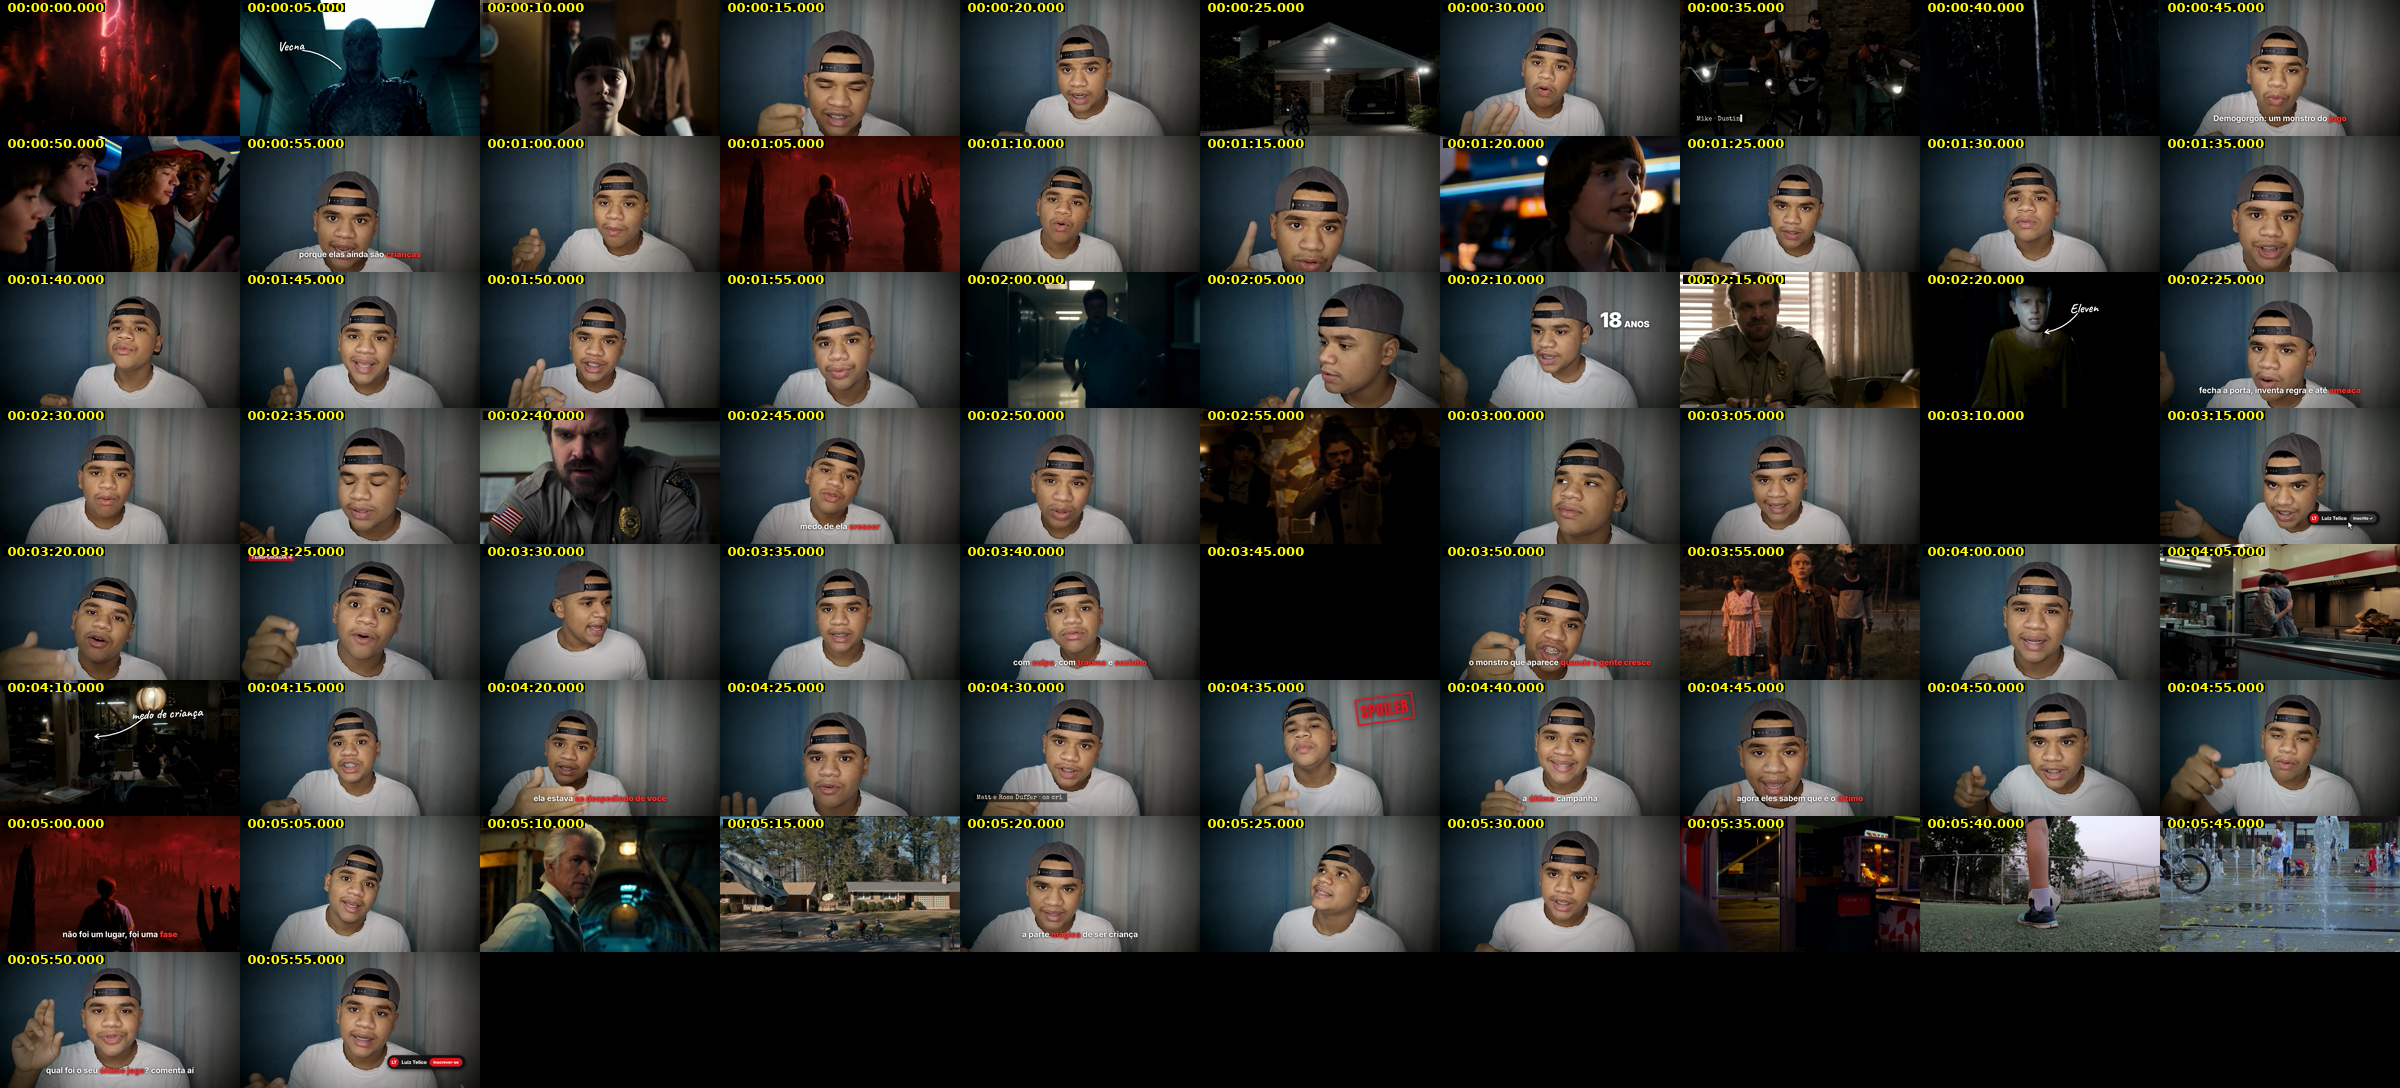
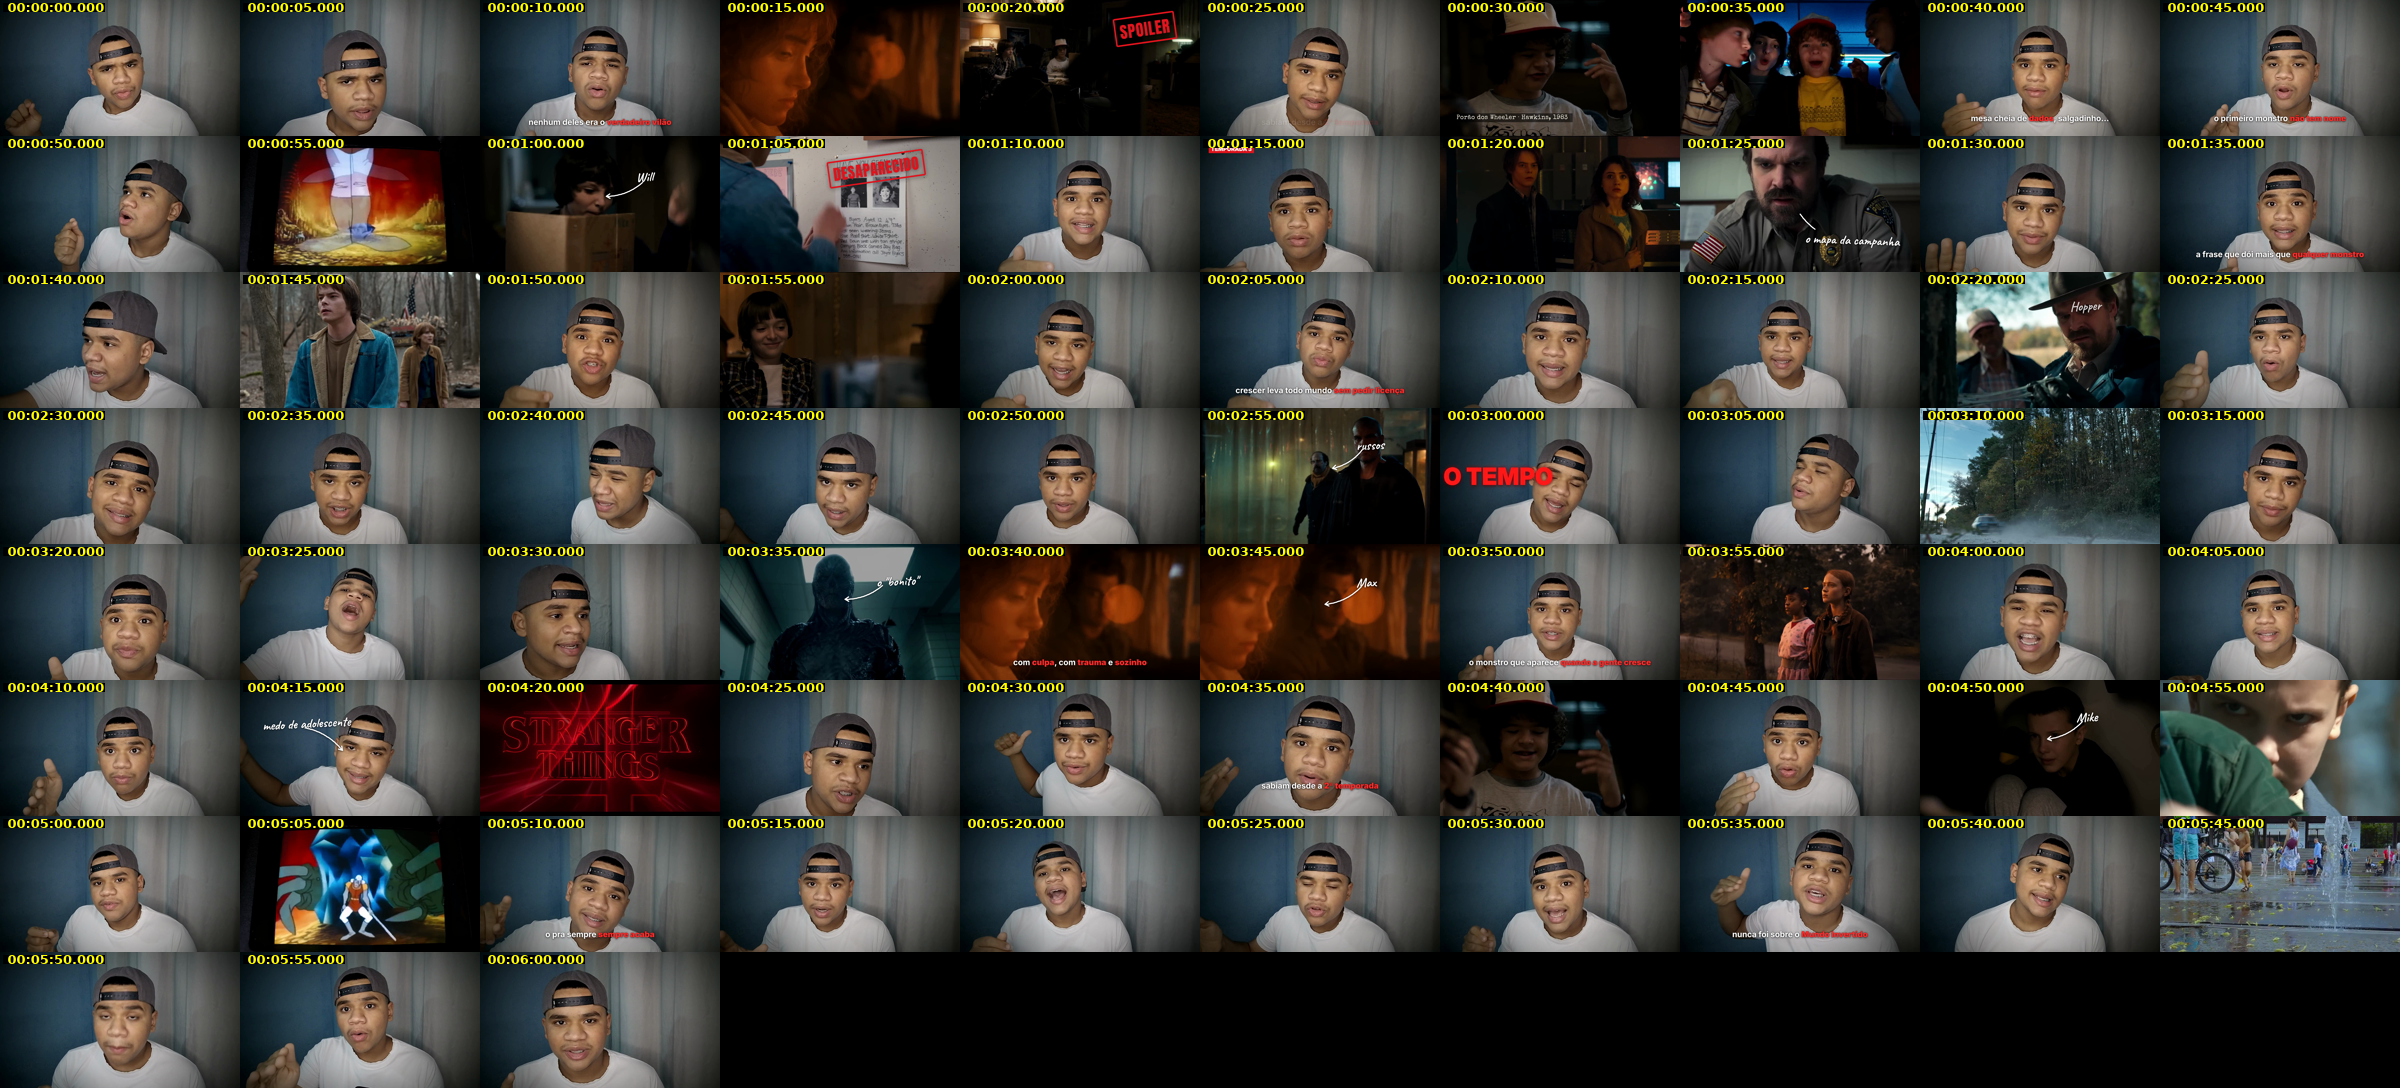
Vídeo 01: correções de planos curtos do trailer (Will, mapa, Eleven)
Claude-Session: https://claude.ai/code/session_0154K5XV25PrkL5BsHsfU7zu

diff --git a/canais/luiz-telico/videos/01-stranger-things-nunca-foi-sobre-o-mundo-invertido/gerar_plano_video.py b/canais/luiz-telico/videos/01-stranger-things-nunca-foi-sobre-o-mundo-invertido/gerar_plano_video.py
@@ -229,6 +229,12 @@ AJ.update({   # 2a conferencia: trechos pretos encontrados com blackdetect no vi
     317.50: [v(317.50, 318.70, "t1", 117.1), v(318.70, 319.25, "t1", 122.05, 1.12, 1.15)],
     319.70: [r(319.25, 323.25)],
 })
+AJ.update({   # 3a conferencia: planos curtos do trailer (Will 5,5-6,0 / mapa 96,0-96,5 / Eleven 92,0-92,6)
+    58.92: [v(58.92, 59.50, "t1", 5.45)],
+    61.00: [r(59.50, 64.18)],
+    84.34: [v(84.34, 84.85, "t2", 95.95), r(84.85, 86.90)],
+    189.30: [v(189.30, 189.90, "t1", 92.0), r(189.90, 192.20)],
+})
 novo = []
 for c in resto:
     k = round(c["ini"], 2)
@@ -259,10 +265,10 @@ artes += [
     arte("sem_nome", 42.60, 2.6, "chave", texto="o primeiro monstro <b>não tem nome</b>"),
     arte("demo_jogo", 46.80, 2.3, "chave", texto="Demogorgon: um monstro do <b>jogo</b>"),
     arte("criancas", 56.20, 2.6, "chave", texto="porque elas ainda são <b>crianças</b>"),
-    arte("will", 59.10, 1.25, "etiqueta", texto="Will", x=1250, y=260, sx=1300, sy=370, ax=1010, ay=480, sfx="pop"),
+    arte("will", 58.97, 0.53, "etiqueta", texto="Will", x=1250, y=260, sx=1300, sy=370, ax=1010, ay=480, sfx="pop"),
     arte("desaparecido", 64.70, 1.8, "carimbo", texto="DESAPARECIDO", x=1250, y=260),
     arte("t3", 74.10, 1.6, "canto", texto="Temporada 3", sfx="pop"),
-    arte("mapa", 84.80, 1.9, "etiqueta", texto="o mapa da campanha", x=1000, y=760, sx=1080, sy=740, ax=900, ay=480, rot=2, sfx="pop"),
+    arte("mapa", 84.38, 0.47, "etiqueta", texto="o mapa da campanha", x=1000, y=760, sx=1080, sy=740, ax=900, ay=480, rot=2, sfx="pop"),
     arte("frase_dor", 93.30, 2.6, "chave", texto="a frase que dói mais que <b>qualquer monstro</b>"),
     arte("castelo", 103.90, 1.05, "etiqueta", texto="Castelo Byers", x=1150, y=220, sx=1230, sy=330, ax=980, ay=500, sfx="pop"),
     arte("infancia", 115.20, 2.2, "chave", texto="o que morre ali é a <b>infância</b>"),
